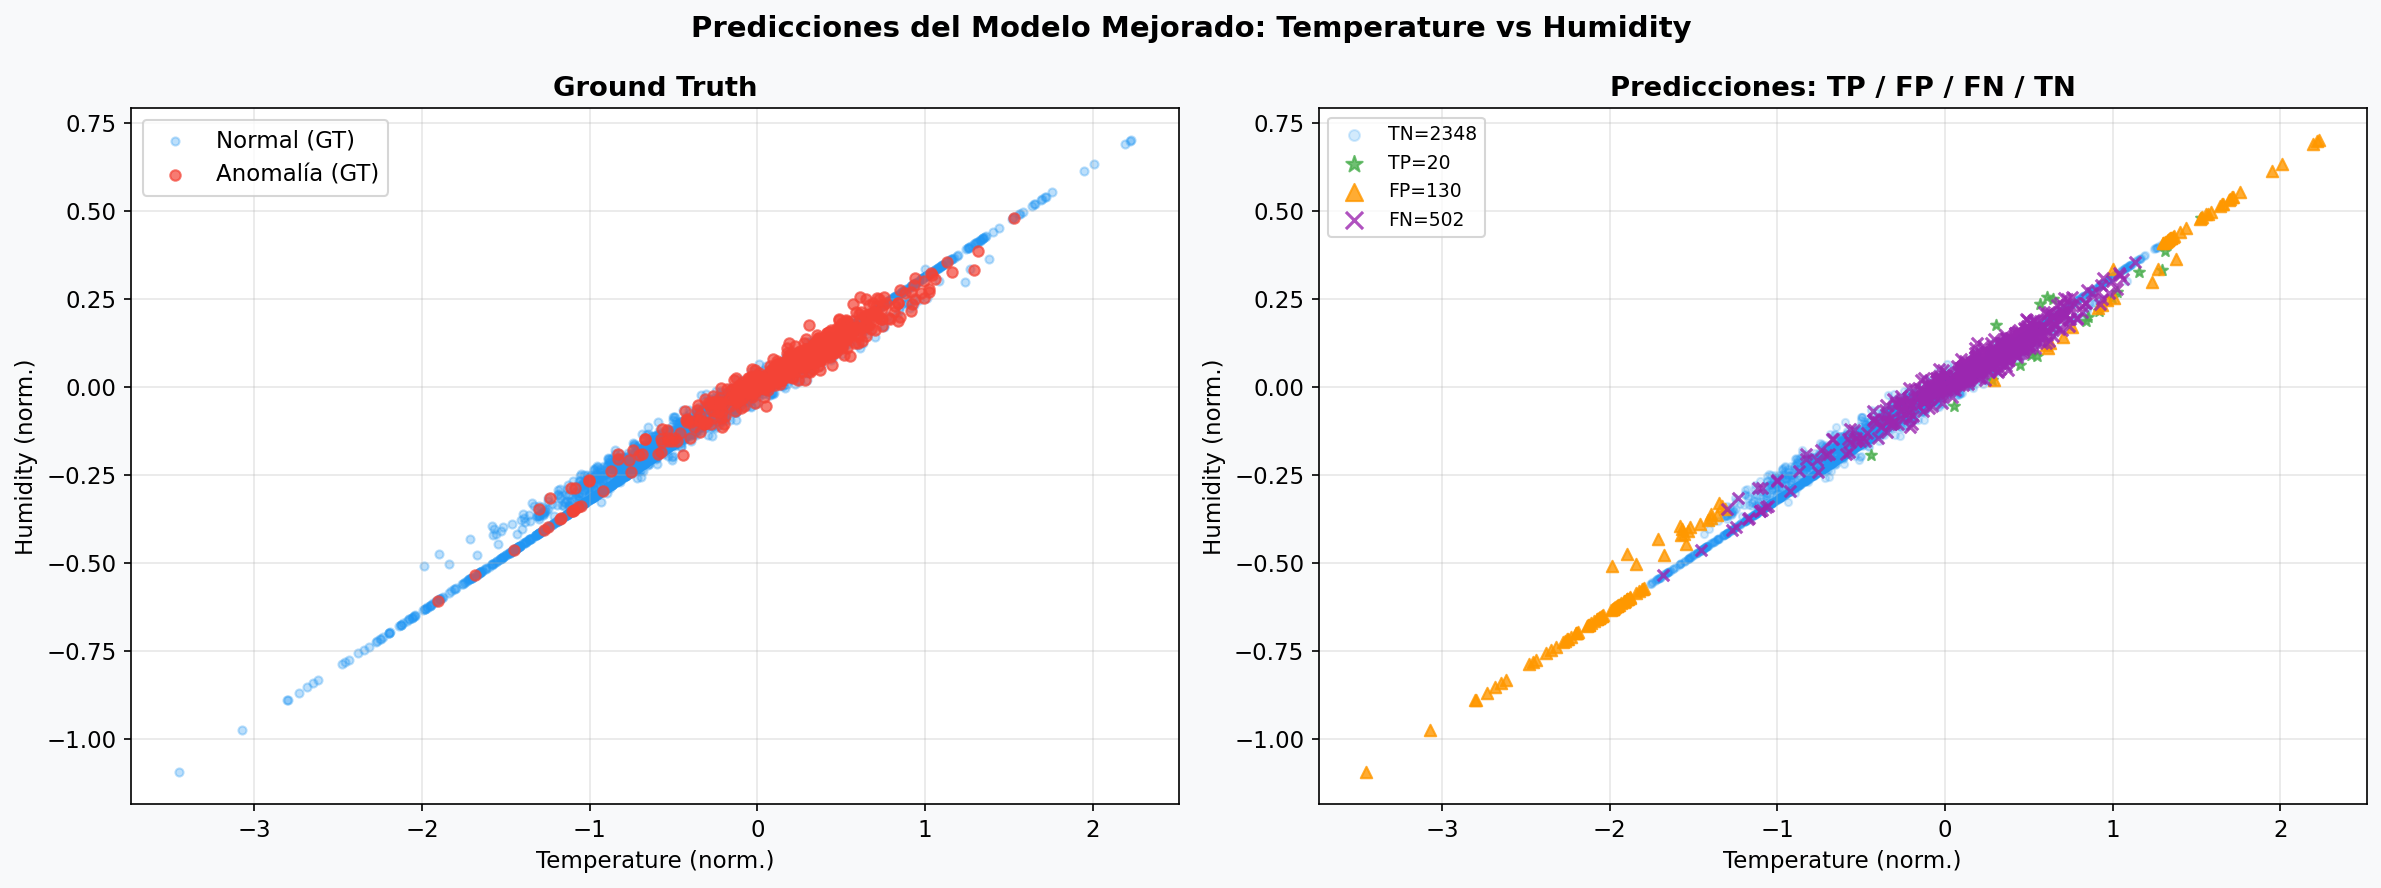
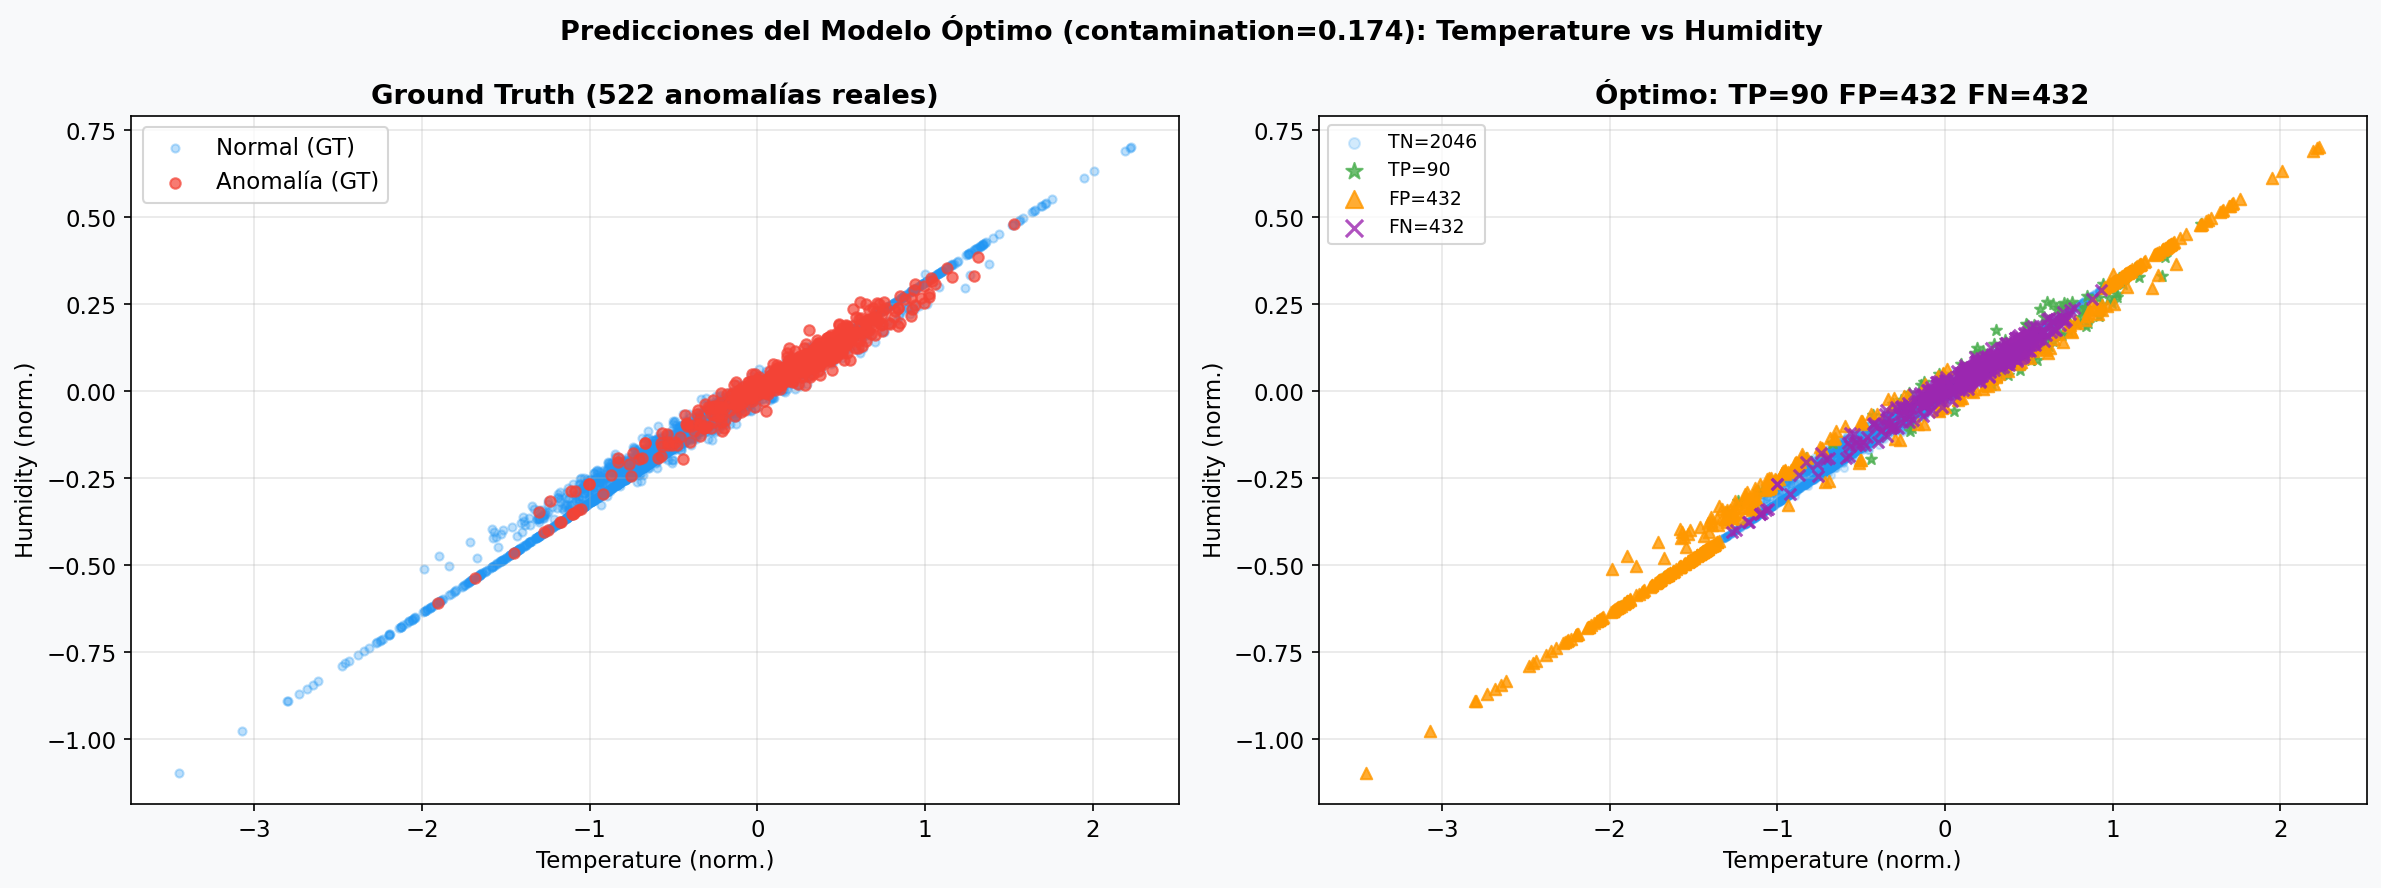
fix: add Optimo model to confusion matrix (3 panels) and scatter plot
- Figure 05 now shows all 3 models: Baseline / Mejorado / Optimo
- Figure 06 now uses Optimo model (contamination=0.174) for fairer comparison
- Óptimo model matches actual anomaly rate → most balanced TP/FP/FN split

diff --git a/notebook/caso_practico.py b/notebook/caso_practico.py
@@ -354,14 +354,16 @@ metrics_i = evaluate_model("Mejorado (contamination=0.05)",  preds_i, decision_i
 metrics_o = evaluate_model("Óptimo (contamination=0.174)",   preds_o, decision_o, y)
 
 # =============================================================================
-# CELDA 9: Matrices de Confusión
+# CELDA 9: Matrices de Confusión (los 3 modelos)
 # =============================================================================
-fig, axes = plt.subplots(1, 2, figsize=(14, 5))
-fig.suptitle('Matrices de Confusión: Predicción vs Ground Truth', fontsize=14, fontweight='bold')
+fig, axes = plt.subplots(1, 3, figsize=(19, 5))
+fig.suptitle('Matrices de Confusión: Comparación de los 3 Modelos', fontsize=14, fontweight='bold')
 
 for ax, metrics, title in zip(axes,
-    [metrics_b, metrics_i],
-    ['Baseline', 'Mejorado']):
+    [metrics_b, metrics_i, metrics_o],
+    ["Baseline\n(contamination='auto')",
+     'Mejorado\n(contamination=0.05)',
+     'Óptimo\n(contamination=0.174)']):
     cm = np.array([[metrics['tn'], metrics['fp']],
                    [metrics['fn'], metrics['tp']]])
     disp = ConfusionMatrixDisplay(confusion_matrix=cm, display_labels=['Normal', 'Anomalía'])
@@ -371,13 +373,16 @@ for ax, metrics, title in zip(axes,
 plt.tight_layout()
 plt.savefig(os.path.join(OUTPUT_DIR, '05_confusion_matrices.png'), dpi=150, bbox_inches='tight')
 plt.close()
-print("📊 Figura 5 guardada: 05_confusion_matrices.png")
+print("📊 Figura 5 guardada: 05_confusion_matrices.png (3 modelos)")
 
 # =============================================================================
-# CELDA 10: Scatter Plot — Predicción vs Ground Truth
+# CELDA 10: Scatter Plot — Comparación Ground Truth vs Óptimo
 # =============================================================================
+# Usamos el modelo Óptimo (contamination=0.174) porque tiene la misma
+# cantidad de predicciones que anomalías reales → comparación más justa
 fig, axes = plt.subplots(1, 2, figsize=(16, 6))
-fig.suptitle('Predicciones del Modelo Mejorado: Temperature vs Humidity', fontsize=14, fontweight='bold')
+fig.suptitle('Predicciones del Modelo Óptimo (contamination=0.174): Temperature vs Humidity',
+             fontsize=13, fontweight='bold')
 
 # Panel izquierdo: Ground Truth
 ax = axes[0]
@@ -385,20 +390,20 @@ ax.scatter(X['Temperature'][y==0], X['Humidity'][y==0],
            c=PALETTE['normal'], alpha=0.3, s=15, label='Normal (GT)')
 ax.scatter(X['Temperature'][y==1], X['Humidity'][y==1],
            c=PALETTE['anomaly'], alpha=0.7, s=25, label='Anomalía (GT)', zorder=3)
-ax.set_title('Ground Truth', fontweight='bold')
+ax.set_title('Ground Truth (522 anomalías reales)', fontweight='bold')
 ax.set_xlabel('Temperature (norm.)')
 ax.set_ylabel('Humidity (norm.)')
 ax.legend()
 
-# Panel derecho: TP, FP, FN, TN
+# Panel derecho: TP, FP, FN, TN — Modelo Óptimo
 ax = axes[1]
-preds_bin = metrics_i['preds_binary']
+preds_bin_o = metrics_o['preds_binary']
 y_arr = y.values
 
-tp_mask = (preds_bin == 1) & (y_arr == 1)
-fp_mask = (preds_bin == 1) & (y_arr == 0)
-fn_mask = (preds_bin == 0) & (y_arr == 1)
-tn_mask = (preds_bin == 0) & (y_arr == 0)
+tp_mask = (preds_bin_o == 1) & (y_arr == 1)
+fp_mask = (preds_bin_o == 1) & (y_arr == 0)
+fn_mask = (preds_bin_o == 0) & (y_arr == 1)
+tn_mask = (preds_bin_o == 0) & (y_arr == 0)
 
 ax.scatter(X['Temperature'][tn_mask], X['Humidity'][tn_mask],
            c='#2196F3', alpha=0.2, s=12, label=f'TN={tn_mask.sum()}')
@@ -408,7 +413,7 @@ ax.scatter(X['Temperature'][fp_mask], X['Humidity'][fp_mask],
            c='#FF9800', alpha=0.8, s=30, label=f'FP={fp_mask.sum()}', marker='^', zorder=4)
 ax.scatter(X['Temperature'][fn_mask], X['Humidity'][fn_mask],
            c='#9C27B0', alpha=0.8, s=30, label=f'FN={fn_mask.sum()}', marker='x', zorder=4)
-ax.set_title('Predicciones: TP / FP / FN / TN', fontweight='bold')
+ax.set_title(f'Óptimo: TP={tp_mask.sum()} FP={fp_mask.sum()} FN={fn_mask.sum()}', fontweight='bold')
 ax.set_xlabel('Temperature (norm.)')
 ax.set_ylabel('Humidity (norm.)')
 ax.legend(markerscale=1.5, fontsize=9)
@@ -416,7 +421,7 @@ ax.legend(markerscale=1.5, fontsize=9)
 plt.tight_layout()
 plt.savefig(os.path.join(OUTPUT_DIR, '06_predictions_scatter.png'), dpi=150, bbox_inches='tight')
 plt.close()
-print("📊 Figura 6 guardada: 06_predictions_scatter.png")
+print("📊 Figura 6 guardada: 06_predictions_scatter.png (modelo óptimo)")
 
 # =============================================================================
 # CELDA 11: Serie Temporal Simulada